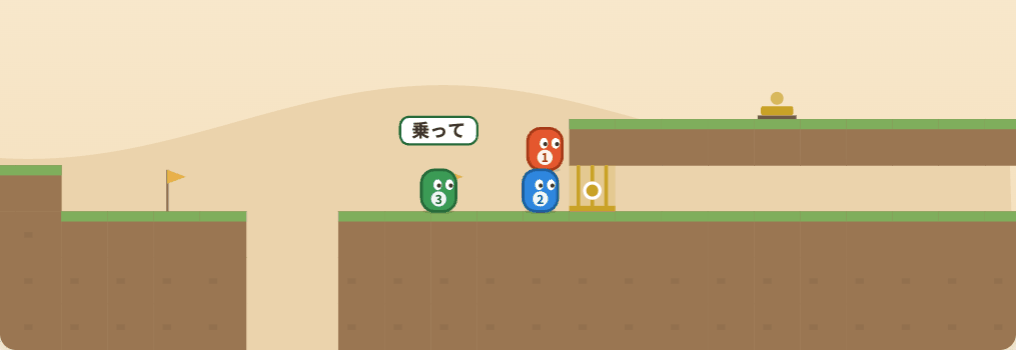
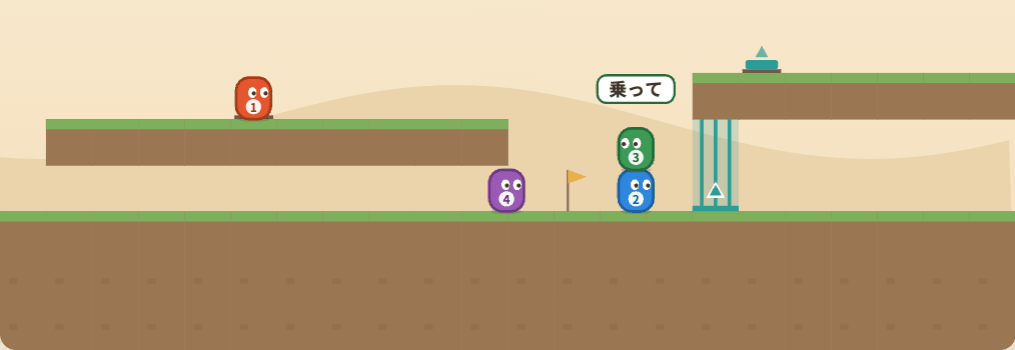
fix(noriai-road): サムネイルをステージ12の場面で撮り直す
ステージを12こにした変更に合わせ、ツール一覧のサムネイル（スライド3枚目の画面例も同じ画像）を
ステージ12「いちばん長い道」の、人の塔の手前で頭に乗る場面にした。撮り方は tests/noriai-road/shot.cjs。

diff --git a/apps/index.html b/apps/index.html
@@ -3530,7 +3530,7 @@
           <div class="app-card__icon">
             <span class="material-symbols-rounded" aria-hidden="true">directions_run</span>
             <img class="app-card__illust" src="assets/illustrations/noriai-road.webp" alt="" width="400" height="400" loading="lazy" decoding="async" />
-            <img class="app-card__thumbnail" src="assets/thumbnails/noriai-road.png" alt="横スクロールのステージ。2番のキャラの頭に1番のキャラが乗って高い台の手前に立ち、3番のキャラが「乗って」の吹き出しを出している。台の上にスイッチ、台の下にとびら" width="1016" height="350" loading="lazy" decoding="async" />
+            <img class="app-card__thumbnail" src="assets/thumbnails/noriai-road.png" alt="横スクロールのステージ12。1番のキャラが台の上のスイッチをおさえ、高い台の手前で3番のキャラが2番の頭に乗って、4番のキャラに「乗って」の吹き出しを出している。高い台の上にスイッチ、下にとびら" width="1015" height="350" loading="lazy" decoding="async" />
           </div>
           <div class="app-card__body">
             <div class="app-card__name">のりあいロード</div>

diff --git a/tests/noriai-road/README.md b/tests/noriai-road/README.md
@@ -11,6 +11,7 @@
 | `e2e3.cjs` | ゴールのとびらから出る: 入っている間はボタンが「出る」（読み上げは「とびらから出る」）・キーの案内・下の矢印キーで出て、出たまま（すぐ入りなおさない）・ホストの画面でも出ている・ボタンでも出られる |
 | `e2e4.cjs` | ステージ6〜10: ステージを10こから選べる（ルーム・1台のパソコン）・同時のスイッチ（1つでは開かない・2つで開く・はなれても開いたまま・参加者の画面でも）・番号のスイッチ（ほかの番号ではおさえられない）・ばねで高く跳ぶ・新しいステージの画面 |
 | `e2e5.cjs` | タイムアタック: はじめはオフ・ホストだけがえらべる・時計が進む・クリアのタイムを両方の画面に（同じ値）・いちばん速いタイム（速くなった・遅かった）・ホストの読み込み直しで書きなおさない・オフにもどすと出ない・1台のパソコンで遊ぶ（保存しない） |
+| `shot.cjs` | ツール一覧のサムネイル（`apps/assets/thumbnails/noriai-road.png`）を撮る。通信しない「1台のパソコンで遊ぶ」のステージ12。`$NR_WORK/out/thumb-raw.png` に枠ごと出すので、下から350px を切って256色にする（`docs/development/thumbnails.md`） |
 | `lib.cjs` | 共通の部品（配信用サーバー・本番あて通信の検出・WebSocket のバイト数・画面の操作・ページの中の状態を読む `st`） |
 | `sync-site.sh` | `apps/shared`・`apps/assets`・`apps/noriai-road`・`apps/updates.json` を作業フォルダに写し、エミュレーター向けに差し替える |
 | `firebase.json` | エミュレーターのポート（auth 9971・database 9972・hub 4971・logging 4972）。配信は 6971 |
